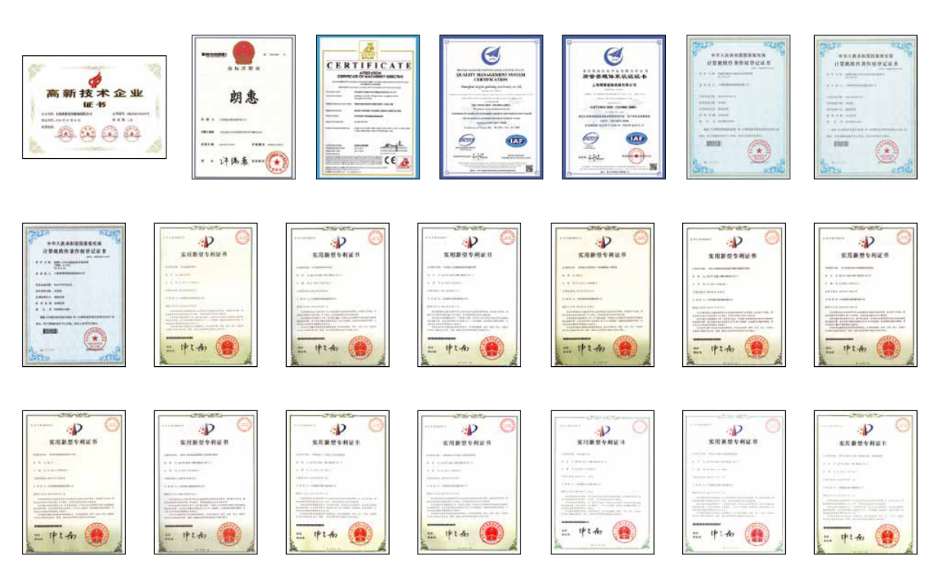
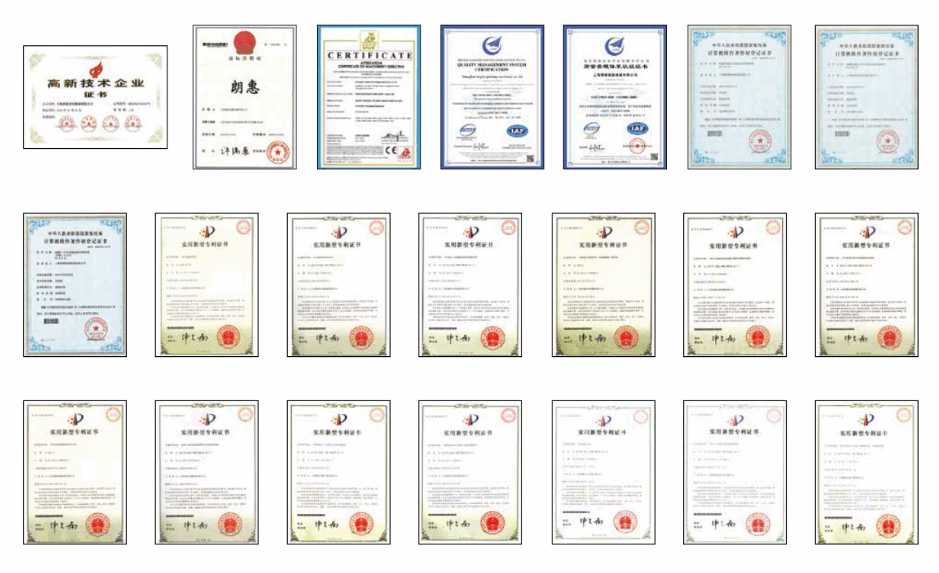
优化；

Changed region(s): [[0.0, 0.356, 0.9883, 0.6527], [0.0, 0.0297, 0.9883, 0.3264], [0.0, 0.6824, 0.9883, 0.9494]]

diff --git a/src/utils/routes.ts b/src/utils/routes.ts
@@ -16,11 +16,12 @@ export const TAB = {
   ABOUT: '/pages/about/index',
 } as const;
 
-/** 主包静态资源路径（按模块分目录，Tab 页可直接加载） */
+/** 分包静态资源路径（大图放分包；主包仅 tabs + logo） */
 export const ASSETS = {
-  HOME: '/static/home',
-  PRODUCTS: '/static/products',
-  NEWS: '/static/news',
-  ABOUT: '/static/about',
+  HOME: '/subpackage/home/static',
+  PRODUCTS: '/subpackage/products/static',
+  NEWS: '/subpackage/news/static',
+  ABOUT: '/subpackage/about/static',
   TABS: '/static/tabs',
+  LOGO: '/static/about/logo.png',
 } as const;
